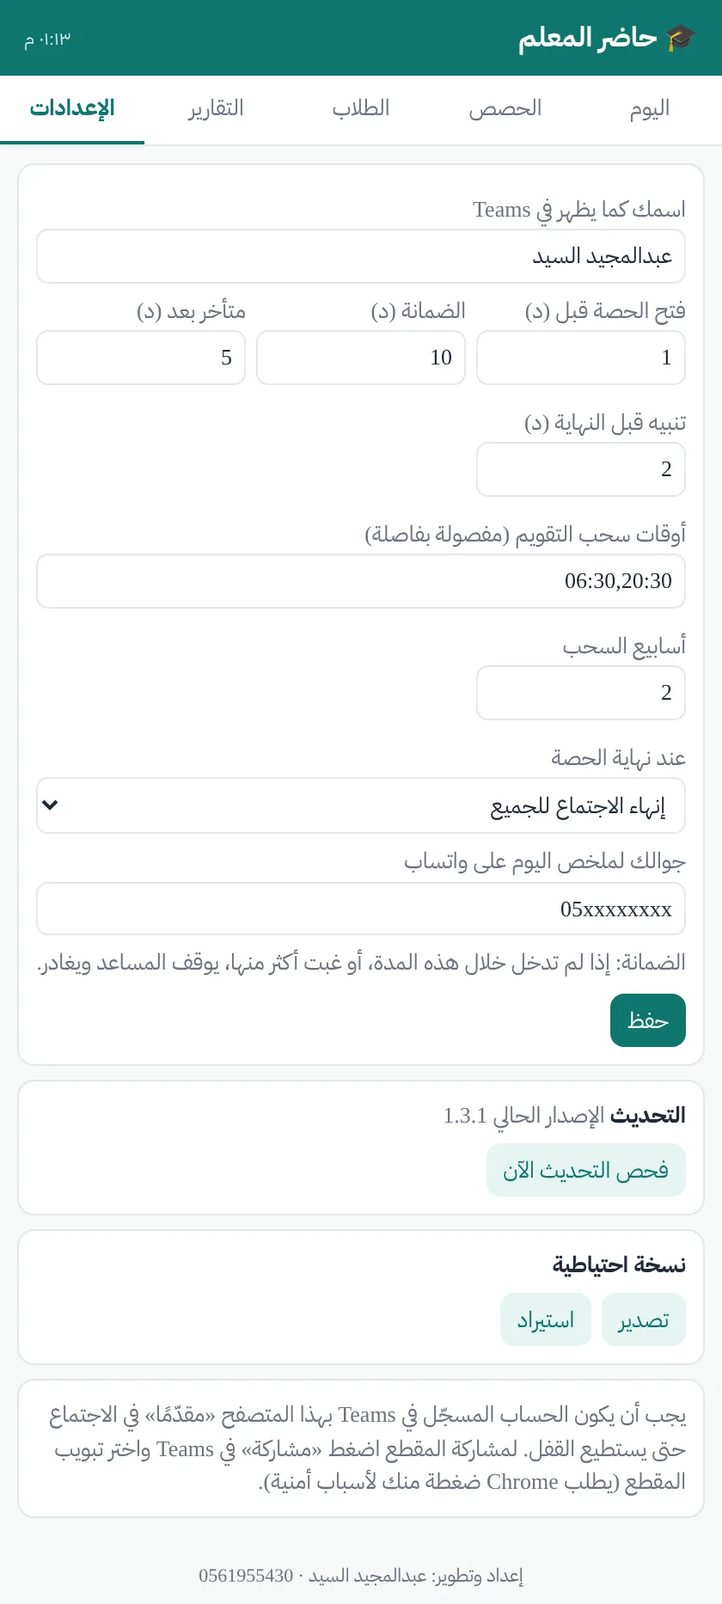
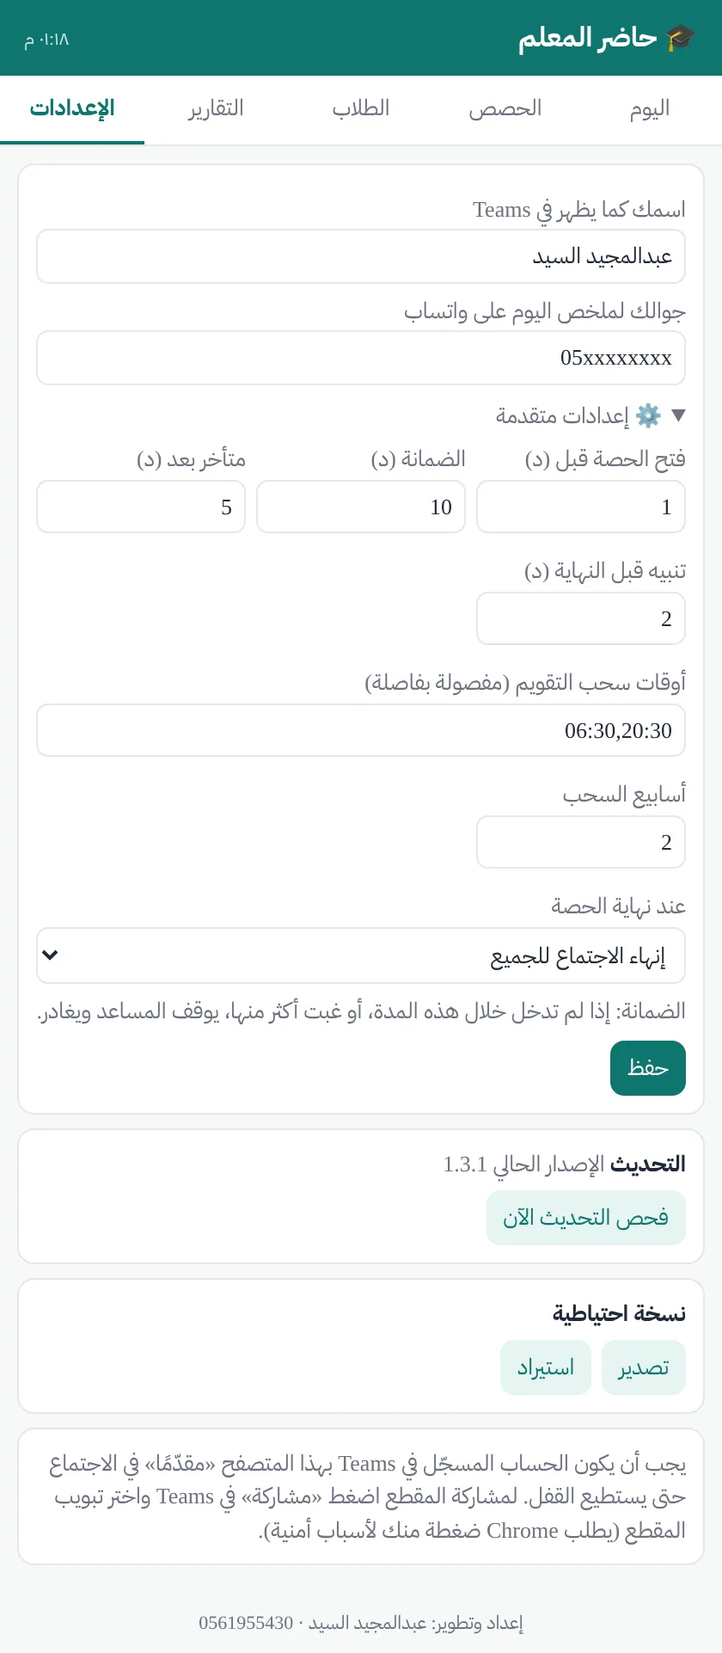
1.4.0: تسهيل للمعلم
Claude-Session: https://claude.ai/code/session_01VbSttiuZkSFoVpL3ydParb

diff --git a/extension/popup.js b/extension/popup.js
@@ -1,6 +1,6 @@
 // حاضر المعلم — النافذة المنبثقة
 const DAYS = ['الأحد', 'الاثنين', 'الثلاثاء', 'الأربعاء', 'الخميس'];
-const DEF = { settings: { teacherName: '', guardMin: 10, prepMin: 1, lateMin: 5, endWarnMin: 2, endMode: 'end', syncTimes: '06:30,20:30', weeks: 2, waPhone: '' }, classes: [], rosters: {}, sessions: {}, sync: {}, update: {} };
+const DEF = { settings: { teacherName: '', guardMin: 10, prepMin: 1, lateMin: 5, endWarnMin: 2, endMode: 'end', syncTimes: '06:30,20:30', weeks: 2, waPhone: '' }, classes: [], rosters: {}, sessions: {}, sync: {}, update: {}, autoRosters: {} };
 const classToday = (c, day, dow) => c.date ? c.date === day : (c.day !== undefined && c.day !== '' && Number(c.day) === dow);
 const $ = s => document.querySelector(s);
 const esc = s => String(s ?? '').replace(/[&<>"]/g, c => ({ '&': '&amp;', '<': '&lt;', '>': '&gt;', '"': '&quot;' }[c]));
@@ -34,24 +34,44 @@ async function vToday() {
   const sync = await get('sync');
   const active = Object.entries(sessions).find(([k, s]) => s.day === day && ['join', 'lock', 'live'].includes(s.phase));
   let h = '';
-  if (!st.teacherName) h += `<div class="card bad">اكتب اسمك كما يظهر في Teams من «الإعدادات» أولًا.</div>`;
+  // معالج أول مرة
+  if (!st.onboarded) {
+    const found = classes.filter(c => c.src === 'cal').length;
+    h += `<div class="card hero"><div class="big">👋 أهلًا بك في حاضر المعلم</div>
+      <div class="mut" style="margin:6px 0 10px">خطوة واحدة: سجّل الدخول في Outlook بحسابك في هذا المتصفح، ثم اضغط الزر. سأتعرف على اسمك وأسحب حصصك تلقائيًا.</div>
+      <button class="btn xl" id="wzSync">${sync.tabId ? '⏳ جارٍ سحب حصصك…' : '🔄 اسحب حصصي وابدأ'}</button>
+      ${found || st.teacherName ? `<div style="margin-top:10px">✅ ${st.teacherName ? 'عرفتك: <b>' + esc(st.teacherName) + '</b> · ' : ''}وجدت ${found} حصة.</div>
+      <div class="row" style="margin-top:8px"><button class="btn" id="wzDone">تم، ابدأ</button><span class="mut">الاسم غير صحيح؟ عدّله من الإعدادات.</span></div>` : ''}</div>`;
+  }
+  // البطاقة الرئيسية: الحصة الجارية أو القادمة
   if (active) {
     const [key, s] = active; const ph = PH[s.phase];
-    h += `<div class="card"><div class="row"><b>الحصة الجارية: ${esc(s.cls)}</b><span class="tag ${ph[1]}">${ph[0]}</span></div>
-      <div class="mut">${esc(s.lesson)} · ${s.start} · المعلم: ${s.teacherSeen ? 'دخل ' + s.teacherSeen : 'لم يدخل بعد'}</div>
-      <div class="row" style="margin-top:8px">
-        <button class="btn" data-c="teacherIn">أنا داخل</button>
-        <button class="btn s" data-c="video">شغّل المقطع</button>
-        <button class="btn s" data-c="muteAll">كتم الجميع</button>
-        <button class="btn s" data-c="relock">إعادة القفل</button>
-        <button class="btn s" data-c="status">الحضور الآن</button>
-        <button class="btn r" data-c="end">إنهاء</button>
+    h += `<div class="card hero"><div class="row"><span class="big">${esc(s.cls)}</span><span class="tag ${ph[1]}">${ph[0]}</span></div>
+      <div class="mut">${esc(s.lesson)} · ${s.start} · ${s.teacherSeen ? '✅ دخلتَ ' + s.teacherSeen : '⏳ بانتظار دخولك'}</div>
+      <div class="row" style="margin-top:10px">
+        ${s.teacherSeen ? '' : '<button class="btn xl" data-c="teacherIn">✋ أنا داخل</button>'}
+        <button class="btn s xl" data-c="video">🎬 المقطع</button>
+        <button class="btn s xl" data-c="status">👥 الحضور</button>
       </div>
-      <div class="row" style="margin-top:6px"><input id="allowName" placeholder="اسم الطالب"><button class="btn s" data-c="allow">اسمح له بالحديث</button></div>
+      <details style="margin-top:8px"><summary class="mut">المزيد</summary>
+        <div class="row" style="margin-top:6px"><button class="btn s" data-c="muteAll">كتم الجميع</button><button class="btn s" data-c="relock">إعادة القفل</button><button class="btn r" data-c="end">إنهاء الحصة</button></div>
+        <div class="row" style="margin-top:6px"><input id="allowName" placeholder="اسم الطالب"><button class="btn s" data-c="allow">اسمح له بالحديث</button></div>
+      </details>
       <div id="cmdOut" class="mut" style="margin-top:6px"></div></div>`;
     setTimeout(() => document.querySelectorAll('[data-c]').forEach(b => b.onclick = () => cmd(key, b.dataset.c)), 0);
+  } else {
+    const nm = new Date().getHours() * 60 + new Date().getMinutes();
+    const mn = t => { const [a, b] = t.split(':').map(Number); return a * 60 + b; };
+    const next = list.find(c => c.link && mn(c.start) >= nm);
+    if (next) {
+      const m = mn(next.start) - nm;
+      h += `<div class="card hero"><div class="mut">الحصة القادمة</div><div class="big">${esc(next.cls || next.lesson)} · ${next.start}</div>
+        <div class="mut">${esc(next.lesson)} — ${m <= 0 ? 'الآن' : m < 60 ? 'بعد ' + m + ' دقيقة' : 'بعد ' + Math.floor(m / 60) + ' س ' + (m % 60) + ' د'}</div>
+        <div class="mut" style="margin-top:6px">ستُفتح تلقائيًا وتُجهَّز قبل موعدها — لا تحتاج شيئًا.</div>
+        ${next.video ? '' : '<div class="tag warn" style="margin-top:6px">بلا مقطع — أضف رابطه من «الحصص»</div>'}</div>`;
+    } else if (st.onboarded) h += `<div class="card hero"><div class="big">✅ لا حصص متبقية اليوم</div></div>`;
   }
-  h += `<div class="card"><div class="row"><button class="btn" id="syncNow">🔄 اسحب حصصي من التقويم</button><span class="mut">${sync.tabId ? 'جارٍ السحب...' : sync.last ? 'آخر سحب: ' + new Date(sync.last).toLocaleString('ar-SA', { weekday: 'short', hour: '2-digit', minute: '2-digit' }) + ' · ' + sync.lastCount + ' حصة' : 'لم يُسحب بعد'}</span></div>${sync.lastErr ? `<div class="tag bad">${esc(sync.lastErr)}</div>` : ''}</div>`;
+  h += `<div class="card"><div class="row"><button class="btn s" id="syncNow">🔄 تحديث الحصص</button><span class="mut">${sync.tabId ? 'جارٍ السحب...' : sync.last ? 'آخر سحب: ' + new Date(sync.last).toLocaleString('ar-SA', { weekday: 'short', hour: '2-digit', minute: '2-digit' }) + ' · ' + sync.lastCount + ' حصة' : 'لم يُسحب بعد'}</span></div>${sync.lastErr ? `<div class="tag bad">${esc(sync.lastErr)}</div>` : ''}</div>`;
   if (!list.length) h += `<div class="card mut">لا حصص اليوم.</div>`;
   h += `<details class="card"><summary><b>🧪 حصة تجريبية الآن</b></summary>
     <div class="mut">أنشئ اجتماع Teams تجريبيًا وادخله من جوالك كطالب، ثم ضع رابطه هنا. تبدأ الحصة بعد دقيقة.</div>
@@ -73,6 +93,8 @@ async function vToday() {
     const r = await chrome.runtime.sendMessage({ t: 'testNow', link: $('#tLink').value.trim(), video: $('#tVideo').value.trim(), dur: Number($('#tDur').value || 10) });
     if (!r?.ok) alert(r?.err || 'تعذّر'); else setTimeout(render, 800);
   };
+  const wz = $('#wzSync'); if (wz) wz.onclick = async () => { await chrome.runtime.sendMessage({ t: 'syncNow' }); wz.textContent = '⏳ جارٍ سحب حصصك…'; const iv = setInterval(async () => { if (!(await get('sync')).tabId) { clearInterval(iv); render(); } }, 3000); };
+  const wd = $('#wzDone'); if (wd) wd.onclick = async () => { const s2 = await get('settings'); s2.onboarded = true; await set('settings', s2); render(); };
   const sb = $('#syncNow'); if (sb) sb.onclick = async () => { const r = await chrome.runtime.sendMessage({ t: 'syncNow' }); if (!r?.ok) alert(r?.err || 'تعذّر'); setTimeout(render, 500); };
   document.querySelectorAll('[data-open]').forEach(b => b.onclick = async () => {
     const r = await chrome.runtime.sendMessage({ t: 'startNow', id: b.dataset.open }); if (!r?.ok) alert(r?.err || 'تعذّر'); render();
@@ -140,14 +162,16 @@ async function vClasses() {
 async function vStudents() {
   const rosters = await get('rosters'), classes = await get('classes');
   const names = [...new Set([...classes.map(c => c.cls), ...Object.keys(rosters)])].filter(Boolean);
-  let h = `<div class="card"><b>سحب أسماء الطلاب (مرة واحدة لكل صف)</b>
+  const auto = await get('autoRosters');
+  let h = `<div class="card ok">✨ لا تحتاج شيئًا هنا: تتعلّم الإضافة أسماء طلاب كل صف من الحصص نفسها. السحب أدناه اختياري، ليظهر الغائبون بالاسم من أول حصة.</div>
+  <details class="card"><summary><b>سحب أسماء الطلاب يدويًا (اختياري)</b></summary>
     <div class="mut">افتح صفحة الفصل التي فيها أسماء الطلاب (أعضاء فريق الفصل في Teams، أو قائمة الفصل في مدرستي)، ثم اضغط «اسحب».</div>
     <label>الصف</label><input id="rCls" list="clsList" placeholder="السادس أ"><datalist id="clsList">${names.map(n => `<option value="${esc(n)}">`).join('')}</datalist>
     <div class="row" style="margin-top:8px"><button class="btn" id="pull">اسحب من الصفحة المفتوحة</button><span id="pullMsg" class="mut"></span></div>
     <label>الأسماء (اسم في كل سطر — راجعها واحذف غير الطلاب)</label><textarea id="rNames">${esc(pulled.join('\n'))}</textarea>
-    <div class="row"><button class="btn" id="rSave">حفظ قائمة الصف</button></div></div>`;
+    <div class="row"><button class="btn" id="rSave">حفظ قائمة الصف</button></div></details>`;
   for (const [k, v] of Object.entries(rosters)) {
-    h += `<div class="card"><div class="row"><b>${esc(k)}</b><span class="tag">${v.length} طالب</span>
+    h += `<div class="card"><div class="row"><b>${esc(k)}</b><span class="tag">${v.length} طالب</span>${auto[k] ? '<span class="tag ok">تعلّمتها الإضافة</span>' : ''}
       <button class="btn s" data-ed="${esc(k)}" style="margin-inline-start:auto">عرض/تعديل</button><button class="btn r" data-rd="${esc(k)}">حذف</button></div></div>`;
   }
   $('#main').innerHTML = h;
@@ -155,7 +179,8 @@ async function vStudents() {
   $('#rSave').onclick = async () => {
     const cls = $('#rCls').value.trim(); if (!cls) return alert('اكتب اسم الصف');
     const list = [...new Set($('#rNames').value.split('\n').map(s => s.trim()).filter(Boolean))];
-    const r = await get('rosters'); r[cls] = list; await set('rosters', r); pulled = []; render();
+    const r = await get('rosters'); r[cls] = list; await set('rosters', r);
+    const a = await get('autoRosters'); delete a[cls]; await set('autoRosters', a); pulled = []; render();
   };
   document.querySelectorAll('[data-ed]').forEach(b => b.onclick = () => { $('#rCls').value = b.dataset.ed; $('#rNames').value = rosters[b.dataset.ed].join('\n'); });
   document.querySelectorAll('[data-rd]').forEach(b => b.onclick = async () => {
@@ -239,6 +264,8 @@ async function vSettings() {
   const st = await get('settings');
   $('#main').innerHTML = `<div class="card">
     <label>اسمك كما يظهر في Teams</label><input id="sName" value="${esc(st.teacherName)}" style="width:100%">
+    <label>جوالك لملخص اليوم على واتساب</label><input id="sWa" value="${esc(st.waPhone || '')}" placeholder="05xxxxxxxx" style="width:100%">
+    <details style="margin-top:8px"><summary class="mut">⚙ إعدادات متقدمة</summary>
     <div class="cls-grid">
       <div><label>فتح الحصة قبل (د)</label><input id="sPrep" type="number" value="${st.prepMin ?? 1}"></div>
       <div><label>الضمانة (د)</label><input id="sGuard" type="number" value="${st.guardMin}"></div>
@@ -250,8 +277,8 @@ async function vSettings() {
         <option value="end" ${(st.endMode || 'end') === 'end' ? 'selected' : ''}>إنهاء الاجتماع للجميع</option>
         <option value="leave" ${st.endMode === 'leave' ? 'selected' : ''}>مغادرة المساعد فقط</option></select></div>
     </div>
-    <label>جوالك لملخص اليوم على واتساب</label><input id="sWa" value="${esc(st.waPhone || '')}" placeholder="05xxxxxxxx" style="width:100%">
     <div class="mut" style="margin-top:6px">الضمانة: إذا لم تدخل خلال هذه المدة، أو غبت أكثر منها، يوقف المساعد ويغادر.</div>
+    </details>
     <div class="row" style="margin-top:8px"><button class="btn" id="sSave">حفظ</button><span id="sMsg" class="mut"></span></div></div>
     <div class="card"><b>التحديث</b> <span class="mut">الإصدار الحالي ${chrome.runtime.getManifest().version}</span>
       <div class="row" style="margin-top:6px"><button class="btn s" id="upChk">فحص التحديث الآن</button><span id="upMsg" class="mut"></span></div></div>
@@ -259,7 +286,7 @@ async function vSettings() {
       <button class="btn s" id="bExp">تصدير</button><label class="btn s" style="margin:0">استيراد<input id="bImp" type="file" accept=".json" hidden></label></div></div>
     <div class="card mut">يجب أن يكون الحساب المسجّل في Teams بهذا المتصفح «مقدّمًا» في الاجتماع حتى يستطيع القفل. لمشاركة المقطع اضغط «مشاركة» في Teams واختر تبويب المقطع (يطلب Chrome ضغطة منك لأسباب أمنية).</div>`;
   $('#sSave').onclick = async () => {
-    await set('settings', { teacherName: $('#sName').value.trim(), prepMin: Number($('#sPrep').value ?? 1), syncTimes: $('#sSync').value.trim(), weeks: Number($('#sWeeks').value || 2), guardMin: Number($('#sGuard').value || 10), lateMin: Number($('#sLate').value || 5), endWarnMin: Number($('#sWarn').value ?? 2), endMode: $('#sEnd').value, waPhone: $('#sWa').value.trim() });
+    await set('settings', { ...(await get('settings')), teacherName: $('#sName').value.trim(), prepMin: Number($('#sPrep').value ?? 1), syncTimes: $('#sSync').value.trim(), weeks: Number($('#sWeeks').value || 2), guardMin: Number($('#sGuard').value || 10), lateMin: Number($('#sLate').value || 5), endWarnMin: Number($('#sWarn').value ?? 2), endMode: $('#sEnd').value, waPhone: $('#sWa').value.trim() });
     $('#sMsg').textContent = '✓ حُفظ';
   };
   $('#upChk').onclick = async () => { $('#upMsg').textContent = '...'; const r = await chrome.runtime.sendMessage({ t: 'checkUpdate' });

diff --git a/extension/background.js b/extension/background.js
@@ -4,6 +4,7 @@ const DEF = {
   clsMap: {},    // معرّف فريق/قناة Teams ← الصف (يتعلّم من تعديلاتك)
   update: {},    // {version, url, notes, checked}
   daySummary: {}, // {date: true} أُرسل تنبيه ملخص اليوم
+  autoRosters: {}, // {الصف: true} قائمة تعلّمتها الإضافة من الحصص
   classes: [],   // أسبوعية {id, day, start, dur, cls, lesson, link, video} أو من التقويم {id, date, ..., src:'cal'}
   rosters: {},
   sessions: {},
@@ -62,6 +63,14 @@ async function tick() {
     chrome.notifications.create('summary-' + day, { type: 'basic', iconUrl: 'icons/128.png', title: 'حاضر المعلم',
       message: `انتهت حصص اليوم (${todays.length}). اضغط لإرسال الملخص على واتساب.`, buttons: [{ title: '📲 إرسال الملخص' }], priority: 2 });
   }
+  // عدّاد الأيقونة
+  try {
+    const live = Object.values(sessions).find(x => x.day === day && ['join', 'lock', 'live'].includes(x.phase));
+    const next = classes.filter(c => classToday(c, day, dow) && c.link && mins(c.start) >= nm).sort((a, b) => mins(a.start) - mins(b.start))[0];
+    if (live) { chrome.action.setBadgeText({ text: '●' }); chrome.action.setBadgeBackgroundColor({ color: '#16a34a' }); chrome.action.setTitle({ title: 'حاضر المعلم — حصة ' + live.cls + ' تعمل الآن' }); }
+    else if (next && mins(next.start) - nm <= 90) { const m = mins(next.start) - nm; chrome.action.setBadgeText({ text: m + 'د' }); chrome.action.setBadgeBackgroundColor({ color: m <= 5 ? '#d97706' : '#0f766e' }); chrome.action.setTitle({ title: `حاضر المعلم — ${next.cls || next.lesson} بعد ${m} دقيقة` }); }
+    else { chrome.action.setBadgeText({ text: '' }); chrome.action.setTitle({ title: 'حاضر المعلم' }); }
+  } catch (e) {}
   // فتح كل حصة في موعدها
   for (const c of classes) {
     if (!classToday(c, day, dow) || !c.link) continue;
@@ -131,6 +140,7 @@ chrome.runtime.onMessage.addListener((m, sender, reply) => {
       reply({ teacherName: st.teacherName, weeks: Number(st.weeks || 2), known });
     } else if (m.t === 'calResult') {
       const sync = await get('sync'); if (sender.tab?.id !== sync.tabId) return reply(false);
+      if (m.me) { const st = await get('settings'); if (!st.teacherName) { st.teacherName = m.me; await set('settings', st); } }
       const list = await mergeCal(m.events || []);
       const noLink = list.filter(c => !c.link).length, noVid = list.filter(c => !c.video).length;
       await set('sync', { ...sync, tabId: null, last: new Date().toISOString(), lastCount: list.length, lastErr: '' });
@@ -155,7 +165,17 @@ chrome.runtime.onMessage.addListener((m, sender, reply) => {
     } else if (m.t === 'syncNow') {
       reply(await startSync());
     } else if (m.t === 'update') {
-      const ss = await get('sessions'); ss[m.key] = Object.assign(ss[m.key] || {}, m.patch); await set('sessions', ss); reply(true);
+      const ss = await get('sessions'); ss[m.key] = Object.assign(ss[m.key] || {}, m.patch); await set('sessions', ss);
+      const s = ss[m.key];
+      if (m.patch.report && !s.test && s.cls) { // تعلّم أسماء الطلاب من الحصة
+        const rosters = await get('rosters'), auto = await get('autoRosters');
+        const seenNames = m.patch.report.filter(r => !r.status.startsWith('غائب')).map(r => r.teams || r.name).filter(Boolean);
+        if (!rosters[s.cls] || auto[s.cls]) {
+          rosters[s.cls] = [...new Set([...(rosters[s.cls] || []), ...seenNames])]; auto[s.cls] = true;
+          await set('rosters', rosters); await set('autoRosters', auto);
+        }
+      }
+      reply(true);
     } else if (m.t === 'note') {
       note(m.msg); reply(true);
     } else if (m.t === 'video') {

diff --git a/site/guide/index.html b/site/guide/index.html
@@ -38,12 +38,12 @@ footer{text-align:center;color:var(--mut);font-size:13px;padding:20px 0 40px}
 <li>اضغط «تحميل إضافة غير مُعبأة» واختر المجلد.</li>
 <li>من أيقونة القطعة 🧩 بجانب شريط العنوان ثبّت «حاضر المعلم».</li>
 </ol>
-<div class="tip">سجّل الدخول في Teams وOutlook على الويب بحسابك في Chrome نفسه.</div></section>
+<div class="tip">سجّل الدخول في Teams وOutlook على الويب بحسابك في Chrome نفسه، ثم افتح الإضافة واضغط <b>«🔄 اسحب حصصي وابدأ»</b>: تتعرف على اسمك وتسحب حصصك تلقائيًا. هذا كل الإعداد.</div></section>
 
-<section id="s2"><div class="step"><div><h2><span class="n">2</span>الإعدادات</h2>
+<section id="s2"><div class="step"><div><h2><span class="n">2</span>الإعدادات (اختيارية)</h2>
 <ul>
-<li><b>اسمك كما يظهر في Teams:</b> به تتعرف الإضافة على اجتماعاتك وعلى دخولك للحصة.</li>
-<li><b>فتح الحصة قبل:</b> دقيقة واحدة تكفي لتجهيز القفل.</li>
+<li><b>اسمك:</b> يُقرأ تلقائيًا من حسابك، وتعدّله هنا إن لزم.</li>
+<li>بقية الخيارات داخل <b>«⚙ إعدادات متقدمة»</b>:</li><li><b>فتح الحصة قبل:</b> دقيقة واحدة تكفي لتجهيز القفل.</li>
 <li><b>الضمانة:</b> 10 دقائق. إن لم تدخل خلالها أو غبت أكثر منها يتوقف المساعد ويغادر.</li>
 <li><b>تنبيه قبل النهاية</b> و<b>عند نهاية الحصة:</b> إنهاء الاجتماع للجميع أو مغادرة المساعد فقط.</li>
 <li><b>جوالك:</b> لاستقبال ملخص اليوم على واتساب.</li>
@@ -57,7 +57,8 @@ footer{text-align:center;color:var(--mut);font-size:13px;padding:20px 0 40px}
 <li>الحصة الموسومة <b>«بلا مقطع»</b>: أضف رابط مقطع الدرس من التحضير.</li>
 </ul></div><img src="/g/2-classes.webp" alt="شاشة الحصص" loading="lazy"></div></section>
 
-<section id="s4"><div class="step"><div><h2><span class="n">4</span>أسماء الطلاب (مرة لكل صف)</h2>
+<section id="s4"><div class="step"><div><h2><span class="n">4</span>أسماء الطلاب (اختياري)</h2>
+<p style="margin:0 0 8px">✨ تتعلّم الإضافة أسماء طلاب كل صف من الحصص نفسها، فلا تحتاج شيئًا. وإن أردت ظهور الغائبين بالاسم من أول حصة:</p>
 <ol>
 <li>افتح صفحة أعضاء فريق الفصل في Teams (الفريق ← … ← إدارة الفريق ← الأعضاء)، أو قائمة الفصل في مدرستي.</li>
 <li>مرّر القائمة حتى تظهر كل الأسماء.</li>
@@ -68,6 +69,7 @@ footer{text-align:center;color:var(--mut);font-size:13px;padding:20px 0 40px}
 
 <section id="s5"><div class="step"><div><h2><span class="n">5</span>يوم الحصة</h2>
 <ul>
+<li>أيقونة الإضافة تعرض الوقت المتبقي للحصة القادمة (مثل «12د»)، وتصبح نقطة خضراء أثناء الحصة.</li>
 <li>اترك Chrome مفتوحًا. قبل الحصة بدقيقة تفتحها الإضافة وتكتم الجميع وتعطّل المايك والكاميرا للطلاب، ثم يصلك: <b>«ادخل الآن»</b>.</li>
 <li>ادخل من جوالك أو التابلت. إن دخلت بنفس الحساب اضغط <b>«أنا داخل»</b>.</li>
 <li><b>المقطع:</b> مفتوح في تبويب جاهز؛ من Teams اضغط «مشاركة» واختر تبويبه مع الصوت.</li>

diff --git a/extension/outlook.js b/extension/outlook.js
@@ -69,13 +69,23 @@
     if (!cfg) return;
     for (let i = 0; i < 20 && !document.querySelector('[role="button"][aria-label]'); i++) await sleep(1000);
     await sleep(3000);
+    if (!cfg.teacherName) { // الاسم غير معروف بعد: اقرأه من الحساب حتى لا تُسحب اجتماعات الآخرين
+      const acc = document.querySelector('#mectrl_currentAccount_primary, [data-tid="me-control-display-name"]');
+      const b = [...document.querySelectorAll('button[aria-label]')].map(x => x.getAttribute('aria-label')).find(l => /Account manager for|مدير الحساب ل/.test(l || ''));
+      cfg.teacherName = acc ? norm(acc.textContent) : b ? norm(b.replace(/.*(Account manager for|مدير الحساب لـ?)\s*/, '')) : '';
+    }
     const out = {};
     await scrapeVisible(cfg, out);
     for (let w = 1; w < (cfg.weeks || 2); w++) {
       const next = findBtn(['الانتقال إلى الأسبوع التالي', 'Go to next week', 'الأسبوع التالي', 'Next week', 'الانتقال إلى الفترة الزمنية التالية', 'Go to next']);
       if (!next) break; next.click(); await sleep(4000); await scrapeVisible(cfg, out);
     }
-    chrome.runtime.sendMessage({ t: 'calResult', events: Object.values(out) });
+    let me = '';
+    const acc = document.querySelector('#mectrl_currentAccount_primary, #O365_MainLink_Me [class*="Name"], [data-tid="me-control-display-name"]');
+    if (acc) me = norm(acc.textContent);
+    if (!me) { const b = [...document.querySelectorAll('button[aria-label]')].map(x => x.getAttribute('aria-label')).find(l => /Account manager for|مدير الحساب ل/.test(l || ''));
+      if (b) me = norm(b.replace(/.*(Account manager for|مدير الحساب لـ?)\s*/, '')); }
+    chrome.runtime.sendMessage({ t: 'calResult', events: Object.values(out), me });
   }
   run();
 })();

diff --git a/extension/popup.html b/extension/popup.html
@@ -26,6 +26,8 @@
   .cls-grid input,.cls-grid select{width:100%}
   .cls-grid{display:grid;grid-template-columns:1fr 1fr 1fr;gap:6px}
   .full{grid-column:1/-1}
+    .hero{border:1.5px solid var(--p2);background:linear-gradient(180deg,#f0fdfa,#fff)} .big{font-size:18px;font-weight:bold}
+  .btn.xl{padding:9px 14px;font-size:14px} details>summary{cursor:pointer}
   footer{text-align:center;color:var(--mut);font-size:11px;padding:8px}
 </style>
 </head>
